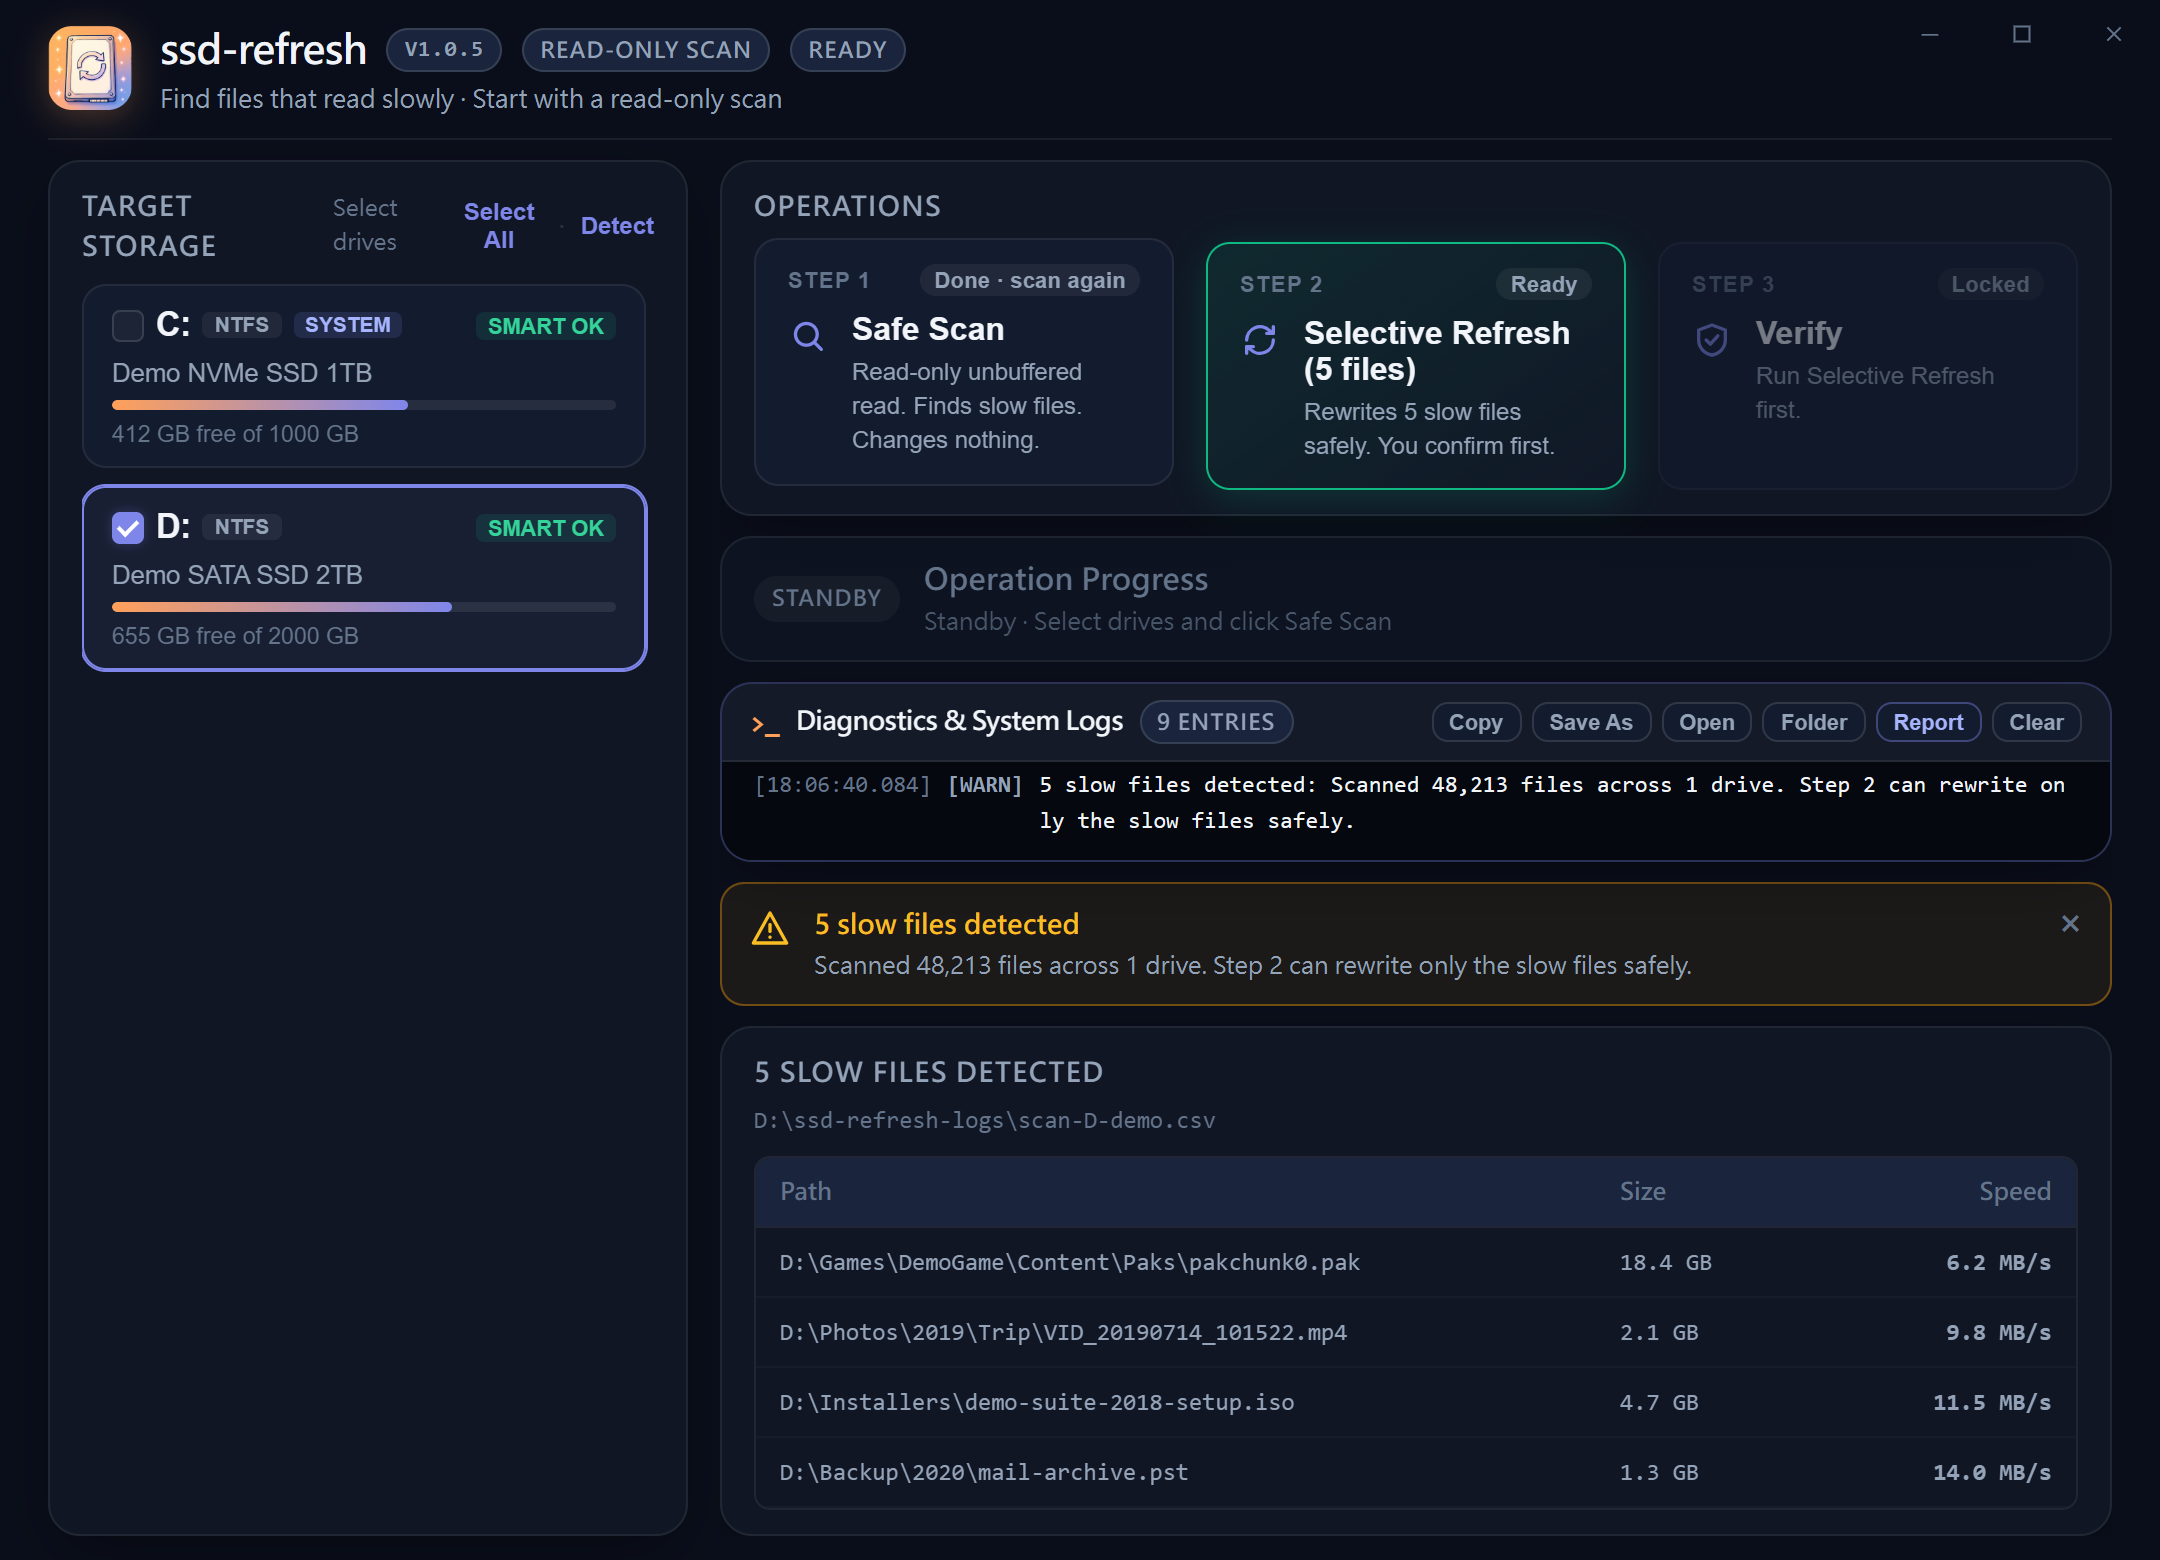
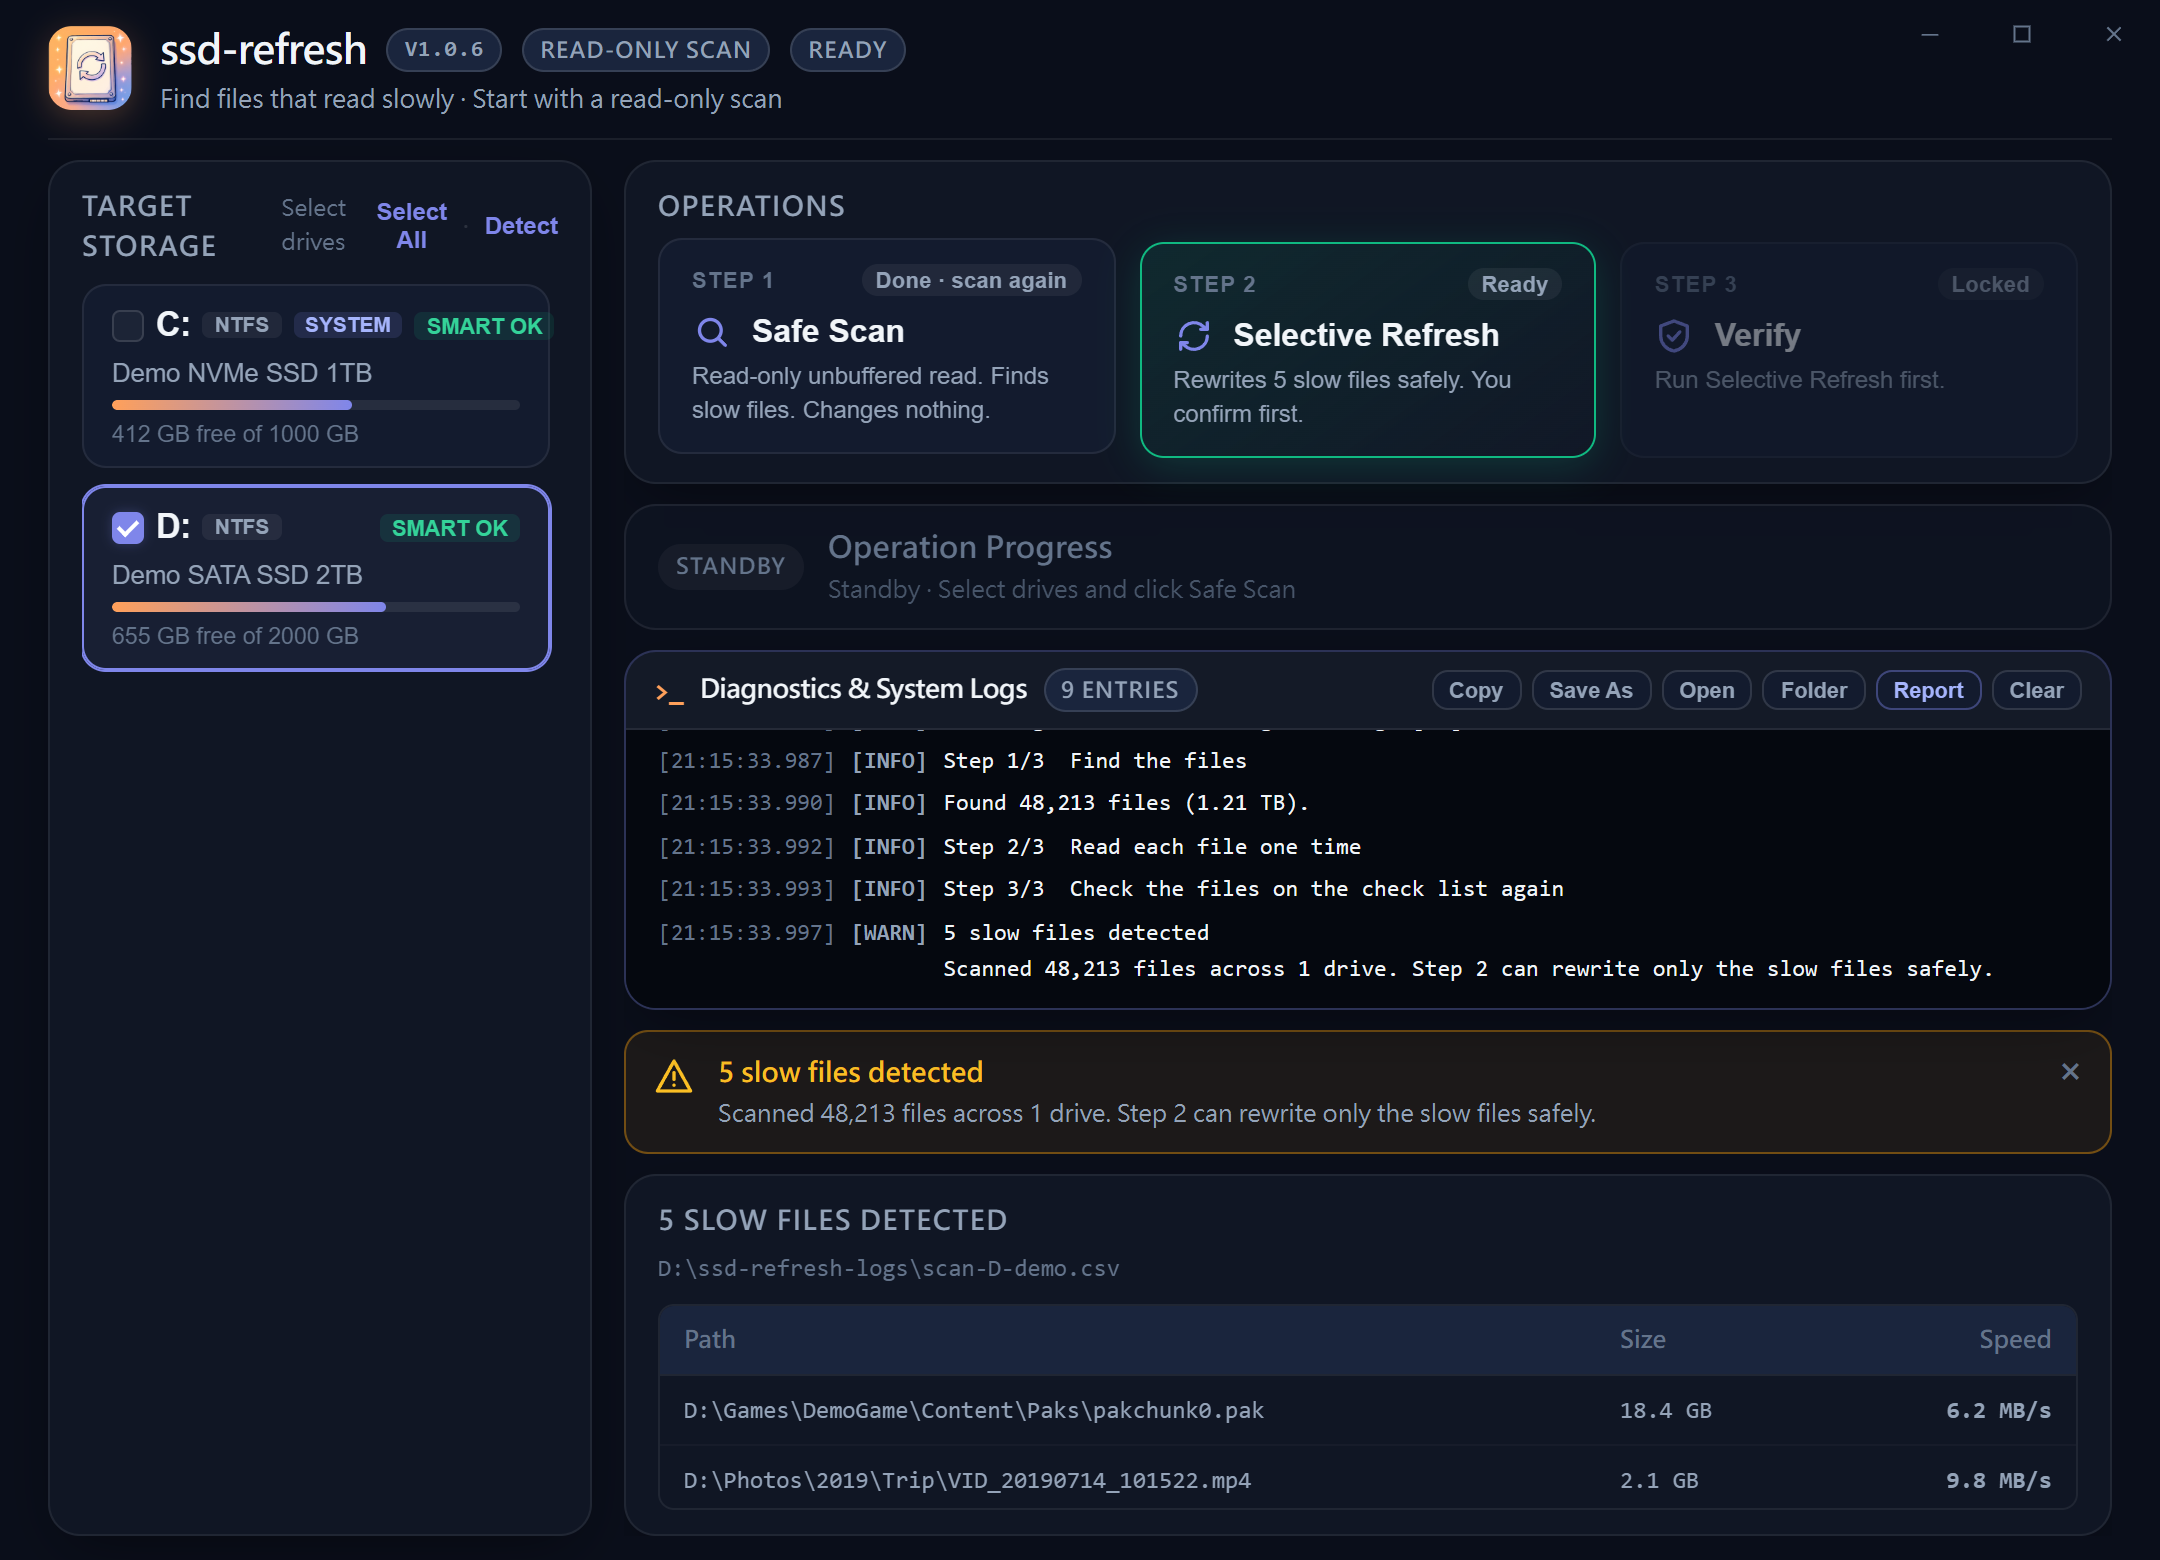
Make the operation cards wide and flat
The sidebar is 272 px instead of 320 px, so the three cards get more
width. In each card, the icon and the title share one row, and the hint
uses the full width below them. The Step 2 title no longer repeats the
file count: the hint already has it. At 1080x780 a card is 106 px high
instead of 122 px, and at 980x640 the console toolbar is not cut.
The drive card can wrap its size and refresh time to two lines.

diff --git a/gui/src/style.css b/gui/src/style.css
@@ -122,7 +122,8 @@ body {
 
 .app-two-column {
   display: grid;
-  grid-template-columns: 320px 1fr;
+  /* A narrow sidebar gives the three operation cards more width. */
+  grid-template-columns: 272px 1fr;
   gap: 16px;
   align-items: stretch;
   flex: 1;
@@ -531,8 +532,10 @@ body {
   font-size: 0.72rem;
   color: var(--text-dim);
   display: flex;
+  flex-wrap: wrap;
   align-items: center;
   justify-content: space-between;
+  column-gap: 8px;
 }
 
 .drive-refreshed {
@@ -565,8 +568,8 @@ body {
 /* Workflow Actions Grid */
 .workflow-grid {
   display: grid;
-  grid-template-columns: repeat(3, 1fr);
-  gap: 16px;
+  grid-template-columns: repeat(3, minmax(0, 1fr));
+  gap: 12px;
 }
 
 .action-card {
@@ -638,21 +641,27 @@ body {
   color: var(--text-muted);
 }
 
+/* Wide and flat: the icon and the title share one row, and the hint uses
+   the full width of the card below them. */
 .action-main {
-  display: flex;
-  align-items: flex-start;
-  gap: 12px;
+  display: grid;
+  grid-template-columns: auto minmax(0, 1fr);
+  align-items: center;
+  column-gap: 10px;
+  row-gap: 4px;
 }
 
 .action-icon {
-  margin-top: 2px;
+  display: flex;
   color: var(--primary);
 }
 
 .action-texts {
-  display: flex;
-  flex-direction: column;
-  gap: 4px;
+  display: contents;
+}
+
+.action-hint {
+  grid-column: 1 / -1;
 }
 
 .action-title {

diff --git a/gui/src/store.ts b/gui/src/store.ts
@@ -263,7 +263,8 @@ export function refreshAction(s: State): ActionView {
 
   return {
     state: "ready",
-    title: `Selective Refresh (${countOf(slowTotal, "file")})`,
+    // The hint has the count. A short title keeps the card on one title line.
+    title,
     hint: `Rewrites ${countOf(slowTotal, "slow file")} safely. You confirm first.`,
     label: "Ready",
     disabled: false,

diff --git a/README.md b/README.md
@@ -41,7 +41,7 @@ Results depend on the drive. The diagram shows a possible result.
 ## Download and start
 
 <p align="center">
-  <img src="docs/images/gui-scan.png" width="720" alt="The ssd-refresh desktop app after a scan of drive D:. The Step 2 card shows Selective Refresh (5 files). The table shows the slow files with path, size and speed.">
+  <img src="docs/images/gui-scan.png" width="720" alt="The ssd-refresh desktop app after a scan of drive D:. The Step 2 card shows Selective Refresh and the hint "Rewrites 5 slow files safely". The table shows the slow files with path, size and speed.">
 </p>
 <p align="center"><sub>The desktop app after a scan. The drives and files are demo data.</sub></p>
 
